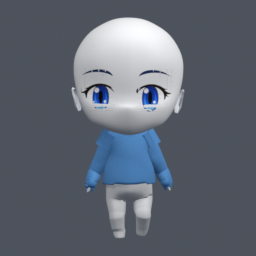
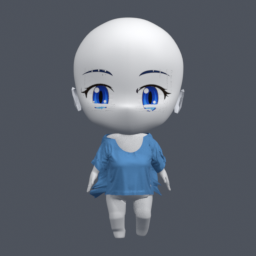
use official garment milestone for short sleeve review

Changed region(s): [[0.3125, 0.5, 0.6875, 0.8438]]

diff --git a/tools/build_preview_assets.py b/tools/build_preview_assets.py
@@ -169,7 +169,7 @@ CLOTHING_REVIEW_CANDIDATES = (
     {
         "slug": "garmentcode_actor_proxy_current",
         "label": "当前实验 / Clean Render Garment + Physics Proxy",
-        "root": ROOT / "prototype/test_output/clothes_next_short_sleeve_v1",
+        "root": ROOT / "prototype/test_output/garmentcode_actor_official_neutral_v3_surface_bias",
         "status": "当前实验",
         "note": "保留 GarmentCode 物理代理，独立生成规则四边面无袖 Render Garment（放大 U 型领口、前后肩带连接、侧缝、闭合下摆），再通过 Surface Deform 跟随 5,369 顶点 Animation Proxy；条带和侧面缺口已消除，仍需审核肩带贴合和动作帧。下一次实验会覆盖它。",
     },
@@ -327,11 +327,11 @@ def copy_clothing_review_assets() -> list[dict[str, object]]:
             stills.append(target.relative_to(OUTPUT).as_posix())
         contact_sheet = destination / ("front_back.png" if source_frame_names else "4way_8frames.png")
         if slug == "garmentcode_actor_proxy_current":
-            candidate_label = "Current experiment / Actor-derived short sleeve v1"
+            candidate_label = "Current experiment / official milestone transferred to Actor"
             candidate_note = (
-                "Current review candidate: Actor-derived shirt body plus independently bone-driven upper-arm sleeves. "
-                "This is the first short-sleeve topology experiment; it is review_required and does not replace the saved "
-                "sleeveless baseline until sleeve cuff, armpit, back integrity, and movement checks pass."
+                "Current review candidate: the official GarmentCode neutral-body milestone with its U-neck and sewn short sleeves, "
+                "transferred to the Actor with side-preserving projection and Actor armature weights. It remains review_required "
+                "until neckline, sleeve/armhole continuity, back integrity, and movement checks pass. The sleeveless baseline is preserved."
             )
         else:
             candidate_label = candidate["label"]

diff --git a/docs/CLOTHES_MILESTONE_SHORT_SLEEVE_TRANSFER_2026-08-06.md b/docs/CLOTHES_MILESTONE_SHORT_SLEEVE_TRANSFER_2026-08-06.md
@@ -1,0 +1,35 @@
+# 官方服装里程碑转移实验（2026-08-06）
+
+## 决策
+
+短袖 v1 的 Actor-derived 袖筒只用于验证骨骼跟随，不作为正式服装版型。
+正式短袖实验回到已经通过 GarmentCode Warp 质量门禁的官方 neutral-body
+T-shirt 里程碑，以避免重新手工构造领口、袖窿和袖片。
+
+## 里程碑输入
+
+- 源目录：`third_party/GarmentCode/Logs/t-shirt__260805-19-14-57_260805-19-31-09/`
+- 官方源：`t-shirt__260805-19-14-57_sim.obj`
+- 质量结果：`fails: {}`、`body_collisions: 0`、`self_collisions: 0`、`fin_frame: 405`
+- 结构保证：官方 U 型领口、袖窿、缝合短袖、连续前后衣身
+
+## Actor 转移边界
+
+只在转移阶段处理 Actor 适配，不改变官方版型拓扑：
+
+1. 按 Actor 的躯干包围盒做宽度、深度和衣长映射；
+2. 用侧面保持的投影与小幅表面余量避免前后表面串面；
+3. 继承 Actor 顶点权重和 Armature modifier，让衣服跟随 walk action；
+4. 通过四方向 × 8 帧 Gallery 审核领口、袖窿、背部和动作连续性。
+
+## 当前候选
+
+`prototype/test_output/garmentcode_actor_official_neutral_v3_surface_bias/`
+
+它仍然是 `review_required`，不替换已保存的无袖基线，也不进入随机池。只有
+领口稳定、袖口和腋下连续、背面完整且动作帧不穿模后，才可作为短袖里程碑。
+
+## 经验
+
+“版型以官方物理里程碑为准，Actor 只负责适配和动画绑定”是本轮工作流的核心。
+如果 Actor 转移仍失败，应调整转移参数和身体代理，不应退回到独立圆柱袖筒。
